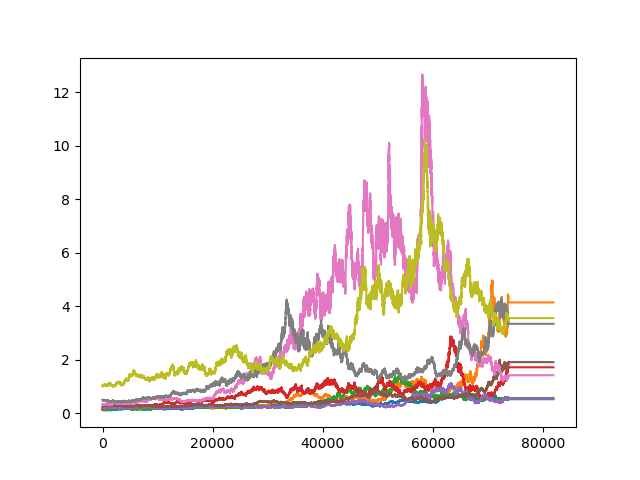
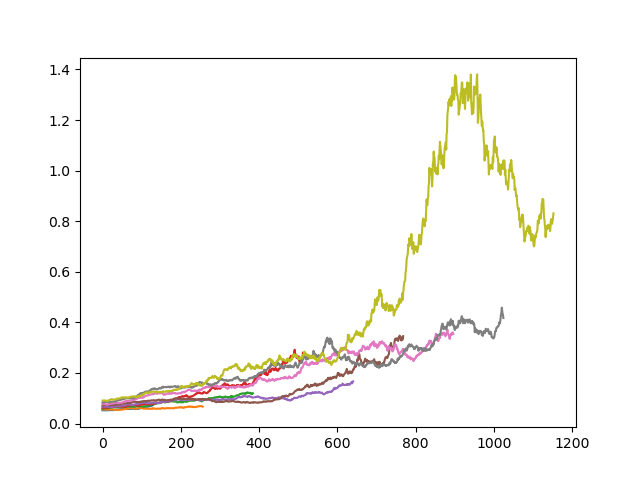
Corrected Indices

diff --git a/LIBORSimulator.py b/LIBORSimulator.py
@@ -7,7 +7,7 @@ import Helper as hp
 
 class LIBORSim(EulerScheme):
 
-    def __init__(self, maturity, prices, iter = 10, scale = 2, measure=0, type=0):
+    def __init__(self, maturity, prices, measure=0, type=0, iter = 10, scale = 2):
         if(measure == 1):
             model=FM.ForwardMeasure(type = type, maturity=maturity, prices=prices, scale=scale)
         else:    
@@ -41,14 +41,14 @@ class LIBORSim(EulerScheme):
 
     def subEngine(self, i):
         print("Processing iteration:", i+1)
-        return (i, [Solver.SamplePath(iter=i, row=j, start=0, SDE=self.model.SDE, timeGrid=self.model.timeGrid, random=self.random[i,j], matrix=self.matrix[i,j]) for j in range(self.matrix.shape[1])])
+        return (i, [Solver.SamplePath(iter=i, row=j, SDE=self.model.SDE, random=self.random[i,j], matrix=self.matrix[i,j]) for j in range(self.matrix.shape[1])])
     
     def engine(self):
         if Solver.parallel is not True:
            for i in range(self.matrix.shape[0]):
                 print("Processing iteration:", i+1)
                 for j in range(self.matrix.shape[1]):
-                    Solver.SamplePath(iter=i, row=j, start=0, SDE=self.model.SDE, timeGrid=self.model.timeGrid, random=self.random[i,j], matrix=self.matrix[i,j])
+                    Solver.SamplePath(iter=i, row=j, SDE=self.model.SDE, random=self.random[i,j], matrix=self.matrix[i,j])
         else:
             asyncRes = [Solver.threadPool.apply_async(func = self.subEngine, args=(i,), callback = self.popMatrix) for i in range(self.matrix.shape[0])]
             for ares in asyncRes:

diff --git a/Parameters.py b/Parameters.py
@@ -1,7 +1,27 @@
 class Parameters:
+
+    measures = {
+            'SpotMeasure': 0,
+            'ForwardMeasure': 1
+        }
+    
+    schemes = {
+            'Simple': 0,
+            'Martingale': 1
+        }
+    
+    #Input Data to Simulation
     maturityDates = [1,2,3,4,5,6,7,8,9,10]
-    bondPrices = [10,9,8,7,6,5,4,3,2,1]
-    epoch = 2           #Number of epochs or batches to run
-    batch = 10          #Number of iterations per epoch = Number of sample paths
-    scale = 13          #Number of binary divisions per time space with *maximum value = 15*
-    parallel = True    #Flag to run the simulation in parallel
+    bondPrices = [10,9.5,9,8.5,8,7.5,7,6.5,6,5.5]
+    measure = measures['SpotMeasure']
+    scheme = schemes['Simple']
+
+    #Simulation Parameters
+    epoch = 10          #Number of epochs or batches to run
+    batch = 100          #Number of iterations per epoch = Number of sample paths
+    scale = 7           #Number of binary divisions per time space with *maximum value = 15*
+    parallel = True     #Flag to run the simulation in parallel
+    
+
+    
+

diff --git a/main.py b/main.py
@@ -12,14 +12,14 @@ def main():
     timer.start()
     
     for ep in range(Parameters.epoch):
-        print("Epoch started...", ep+1) 
-        simulator = LIBORSim(maturity=Parameters.maturityDates, prices=Parameters.bondPrices, measure=0, iter = Parameters.batch, scale = Parameters.scale, type=0)
+        print("---Epoch %i started---" %(ep+1)) 
+        simulator = LIBORSim(maturity=Parameters.maturityDates, prices=Parameters.bondPrices, measure=Parameters.measure, type=Parameters.scheme, iter = Parameters.batch, scale = Parameters.scale)
         simulator.simulate() 
         timer.stop()
         simulator.processSP()  
         timer.stop() 
         del simulator 
-        print("Epoch complete...", ep+1) 
+        print("---Epoch %i done---"% (ep+1)) 
     print("Simulation complete :) ...", timer.tock)
 
 if __name__ == "__main__":

diff --git a/LIBORMarketModel.py b/LIBORMarketModel.py
@@ -24,11 +24,14 @@ class LIBORModel(ModelInterface):
         else:
             return self.genDrift
           
-    def SDE(self, curVal, step, rv, index):         #SDE according to eulers scheme
+    def SDE(self, curVal, i1, i2, rv, row):         #SDE according to eulers scheme
+        #print("SDE", curVal, i1, i2, rv, row)
+        if(self.timeGrid[i2] > self.maturityGrid[row]):
+            return None
         mu = self.drift()()
         sigma = self.volatility()
         #print(mu, sigma)
-        return curVal + mu*curVal*step + curVal*np.sqrt(step)*np.dot(sigma, rv) 
+        return curVal + mu*curVal*(self.timeGrid[i2] - self.timeGrid[i1]) + curVal*np.sqrt((self.timeGrid[i2] - self.timeGrid[i1]))*np.dot(sigma, rv) 
     
     def choleskyFactor(self):
          pass 

diff --git a/NumericalSolver.py b/NumericalSolver.py
@@ -10,10 +10,10 @@ class Solver:
     parallel = False
 
     #Generate one sample path
-    def SamplePath(iter, row, start, SDE, timeGrid, random, matrix):  
+    def SamplePath(iter, row, SDE, random, matrix):  
         #print("EulerScheme.SamplePath", count)
-        for i in range(len(timeGrid)-1):
-            matrix[start+i+1] = SDE(curVal=matrix[start+i], step=(timeGrid[i+1] - timeGrid[i]),rv = random[start+i+1], index = i+1)
+        for i in range(matrix.shape[0]-1):
+            matrix[i+1] = SDE(curVal=matrix[i], i1 = i, i2 = i+1, rv = random[i+1], row=row)
         #print(matrix)
         return matrix
 

diff --git a/Helper.py b/Helper.py
@@ -31,8 +31,9 @@ def unitTest(myClass):
     pass
 
 def discretize(arr, num):
+    arr = np.concatenate([[0], arr])
     for i in range(num):
-        arr = np.sort(np.concatenate([arr, np.add(arr,np.concatenate([np.diff(arr)/2,[0]]))]))
+        arr = np.sort(np.concatenate([arr,np.add(arr[:-1],np.diff(arr)/2)]))
     return arr
 
 def plot():
